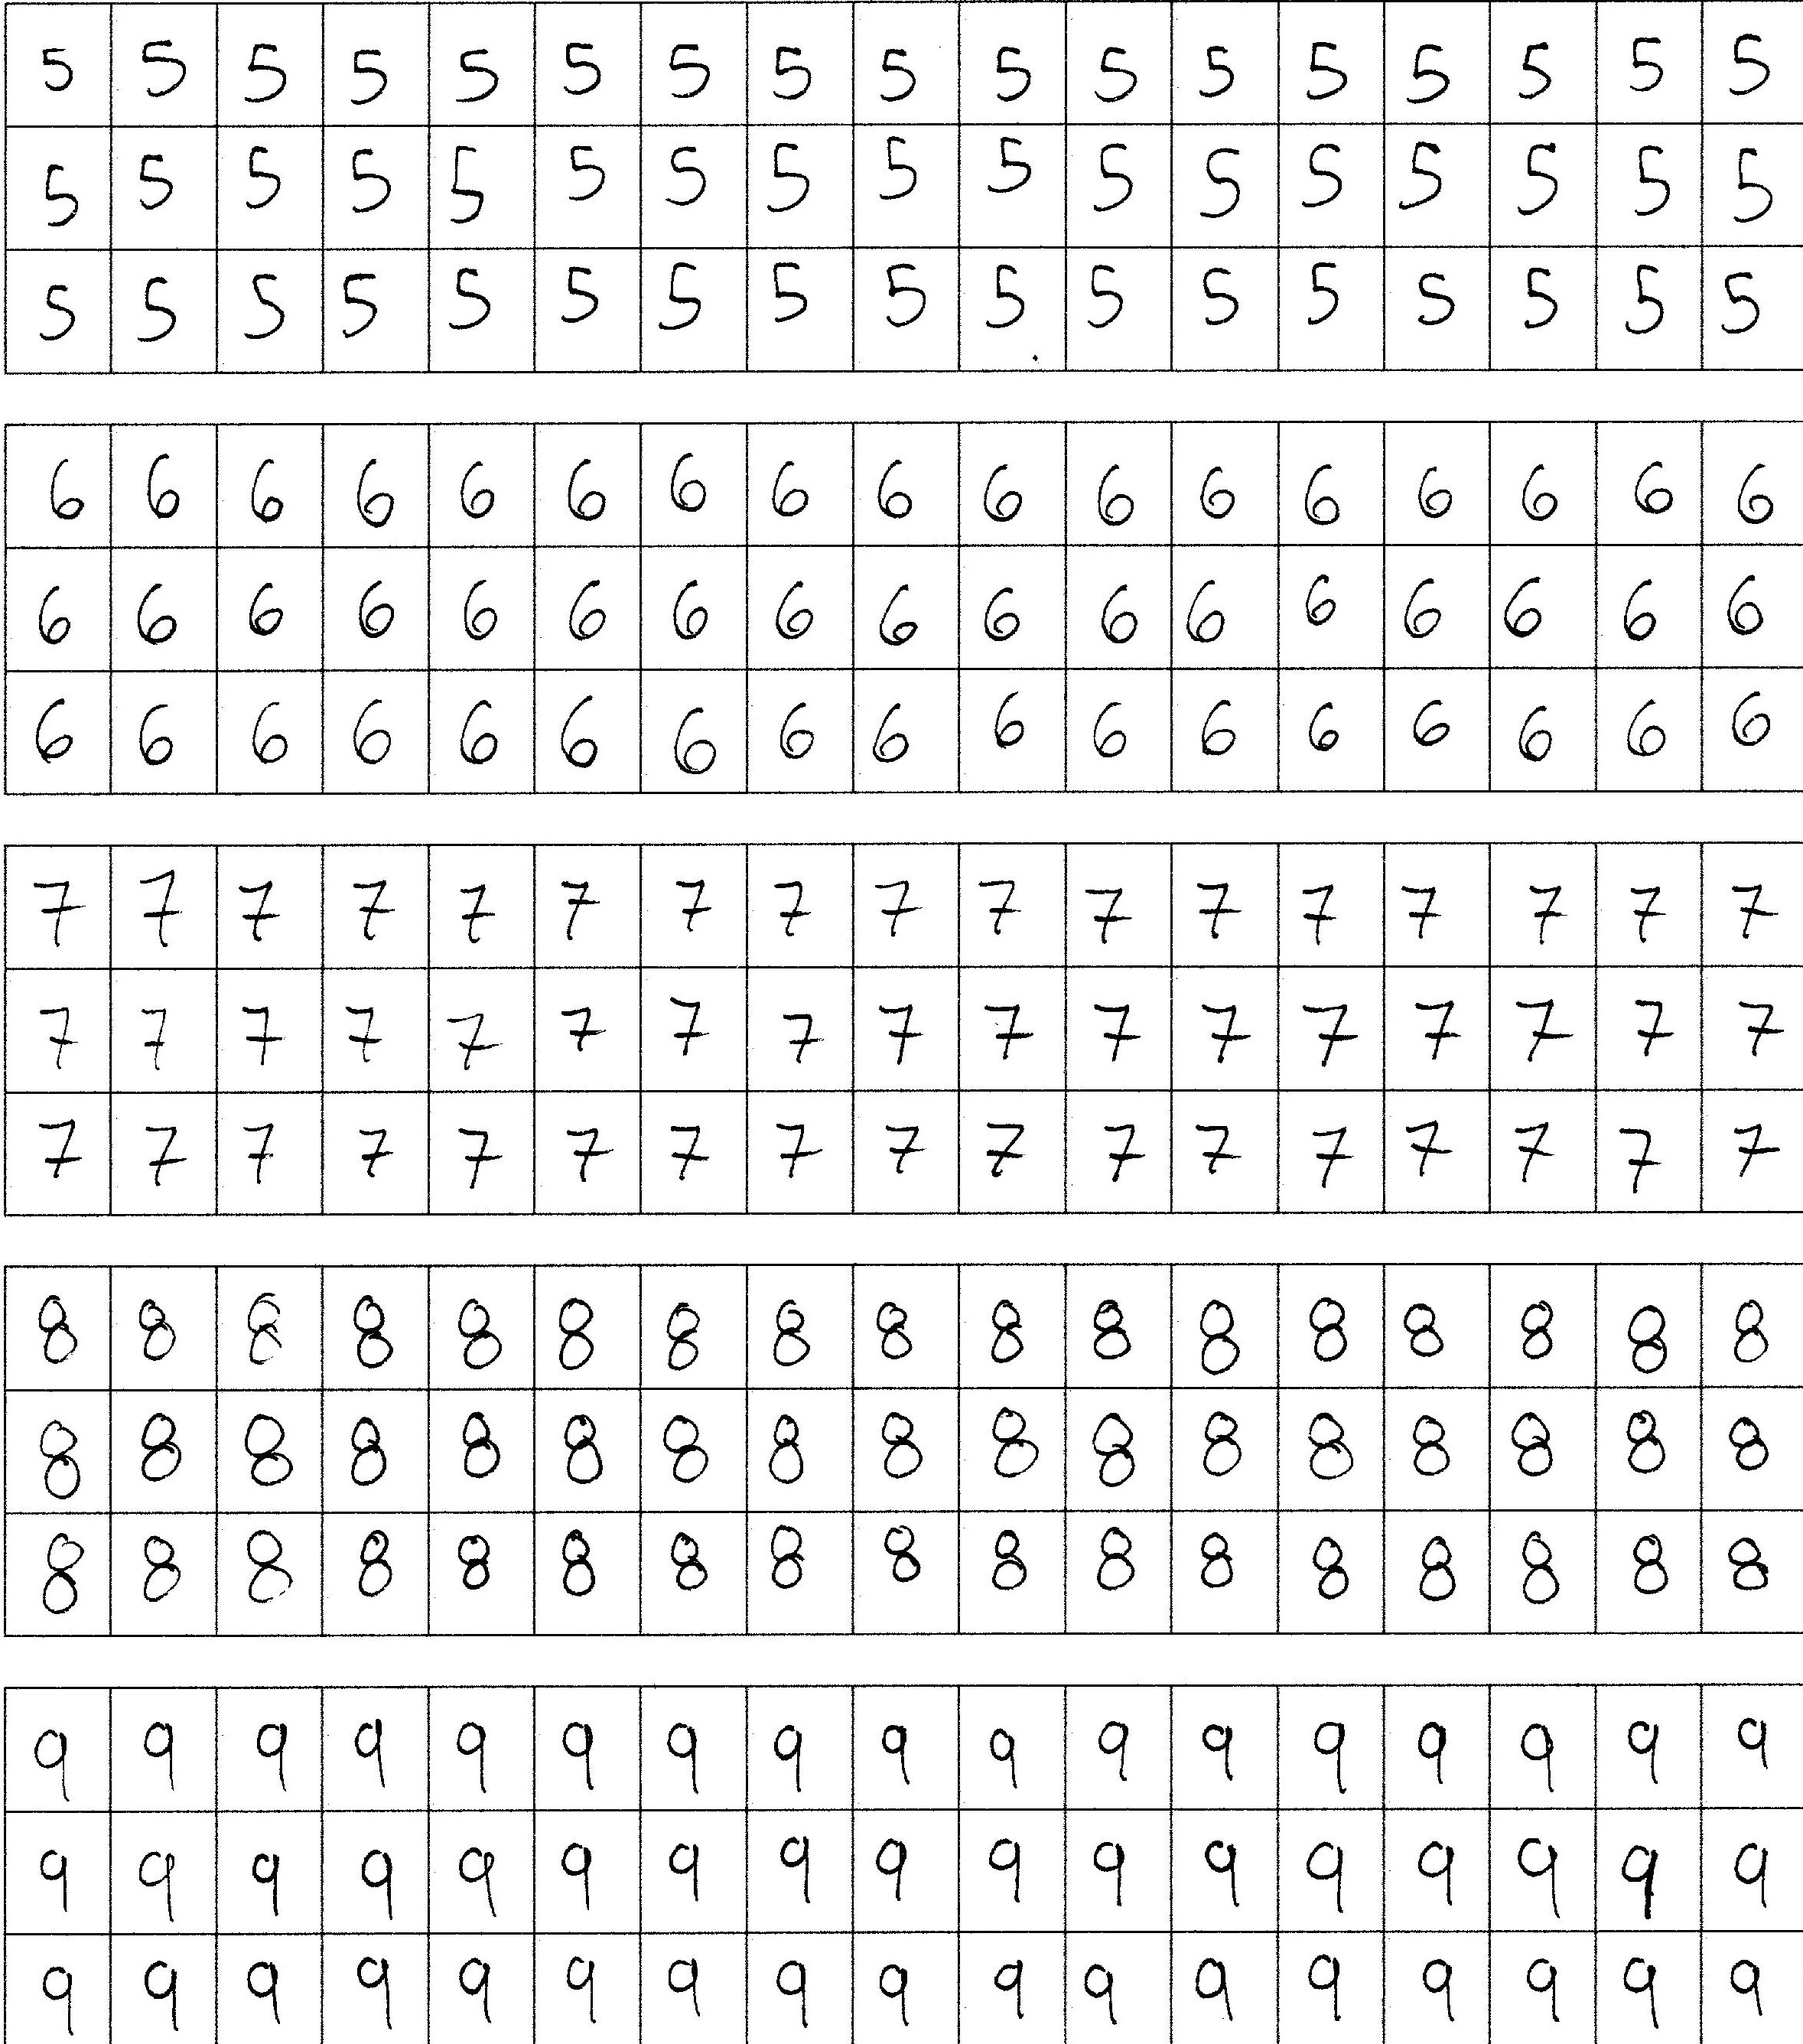
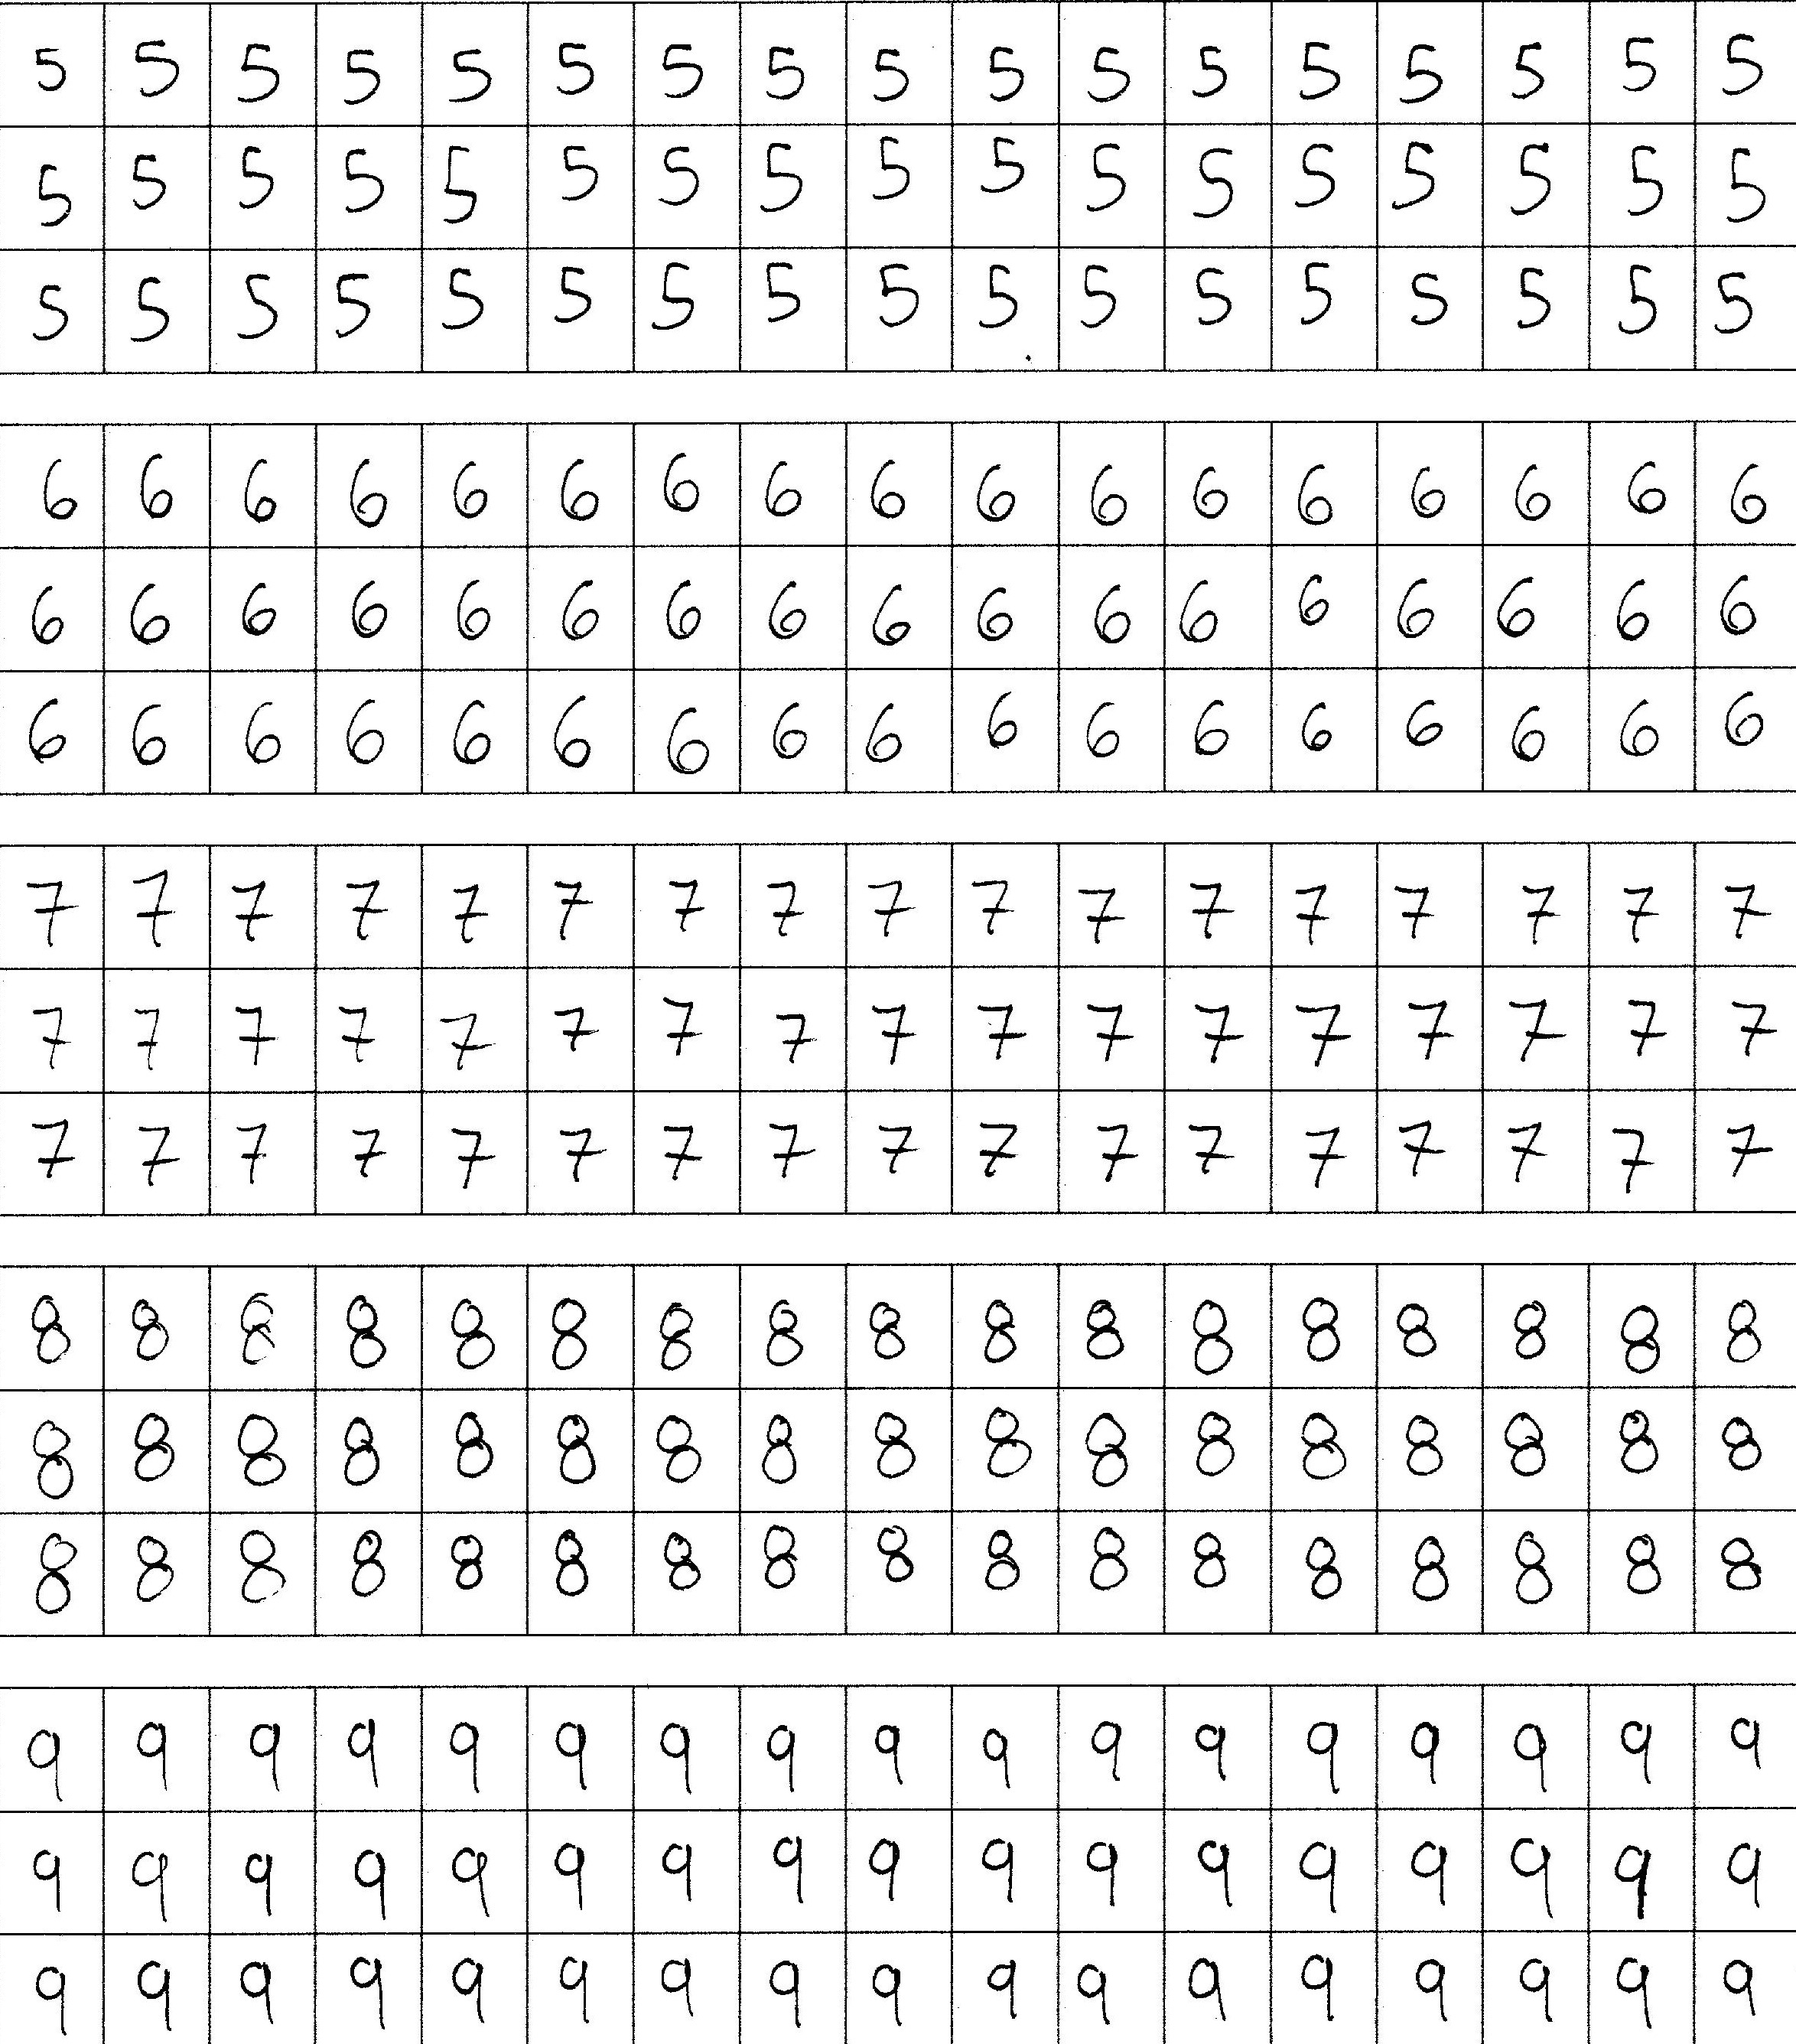
x

diff --git a/lab6.py b/lab6.py
@@ -103,9 +103,9 @@ def preprocessing(img):
     _ , img = cv2.threshold(img, 0, 255, cv2.THRESH_BINARY | cv2.THRESH_TRIANGLE)
 
     img, l = fillBlackLines(img, 0, 0)
-    img, _ = fillBlackLines(img, 1, l)
+    #img, _ = fillBlackLines(img, 1, l)
 
-    img = whitePadding(img, 4)
+    img = whitePadding(img, 5)
 
     kernel = np.ones((3,3), np.uint8)
     closing = cv2.morphologyEx(img, cv2.MORPH_CLOSE, kernel)
@@ -161,7 +161,8 @@ def processSamples(groupId):
         for l in range(5):
             bef = moveB+excessB
             crop_img = src[bef: bef + move, 0:w]
-            
+            #if(l==1 and groupId==1):
+                #showImage(crop_img, "crop")
             #showImage(crop_img, "crop")
             groupCounts[groupId][l] = extractIndividualNumbers(crop_img, groupPaths[groupId][l], groupCounts[groupId][l])
             #print(groupACounts[l], " ", groupAPaths[l])
